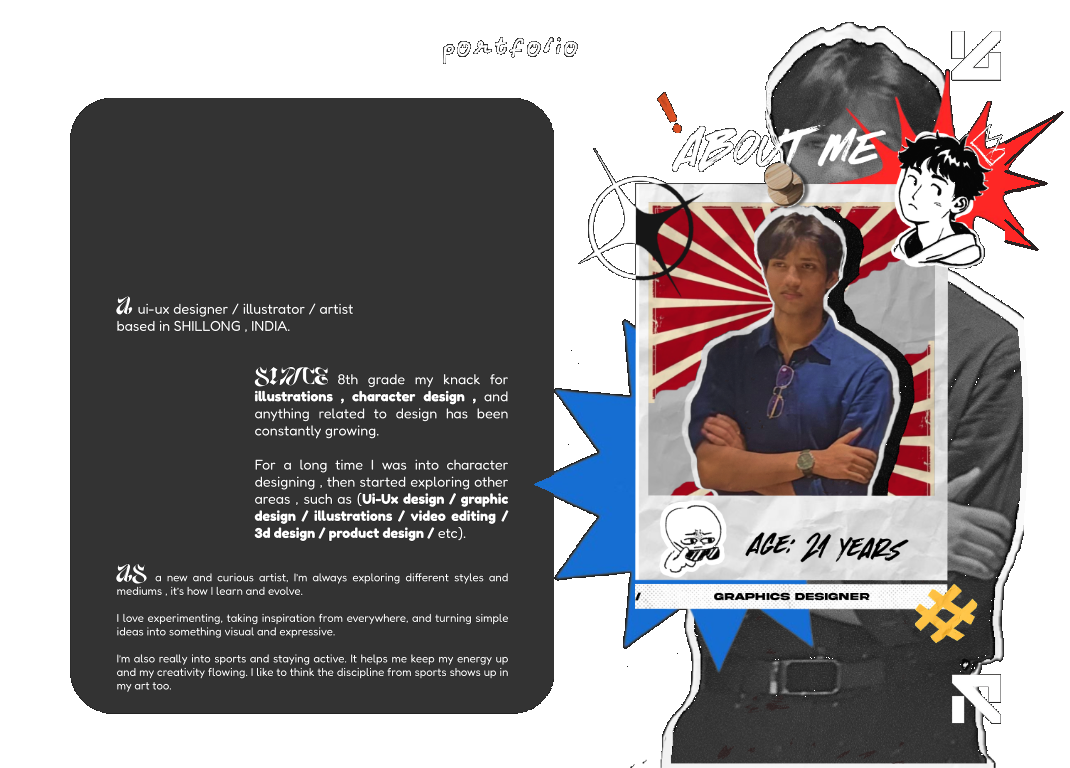
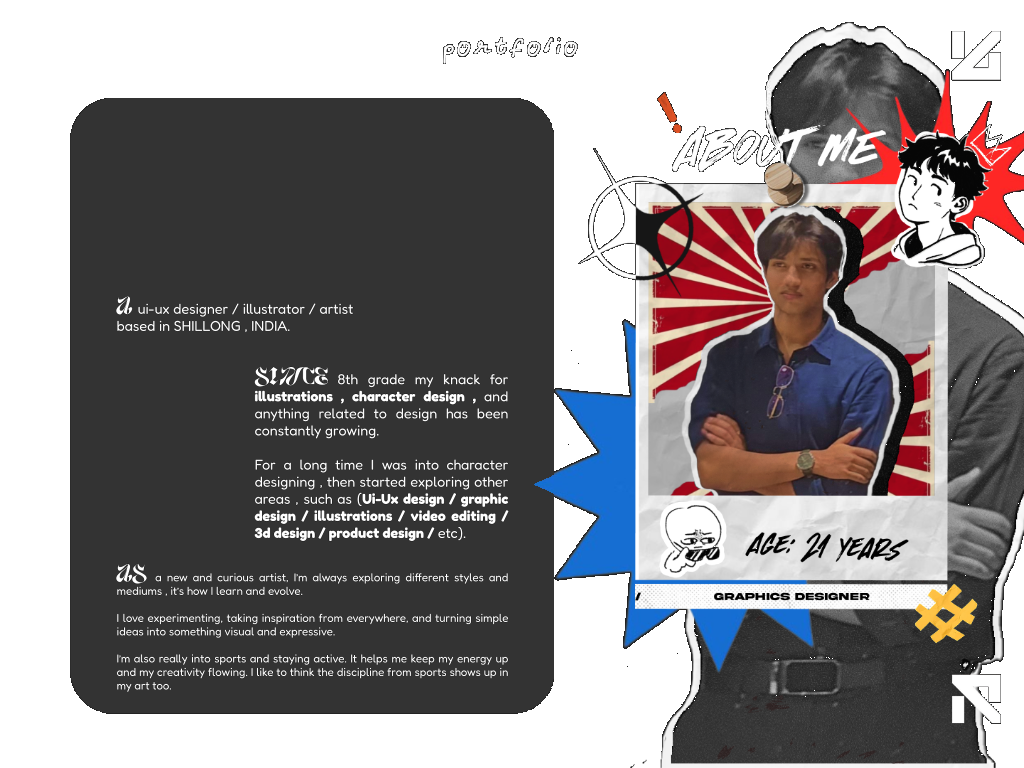
Revert "Keep card stroke and expand cutouts beyond border uncropped"
This reverts commit 6453556ddcc60aea8bdeaab93aa1ce0037a4eace.

diff --git a/src/components/AboutSection.jsx b/src/components/AboutSection.jsx
@@ -30,12 +30,12 @@ export default function AboutSection() {
         
         {/* ================= DESKTOP / TABLET VIEW (md and up) ================= */}
         <div className="hidden md:block w-full">
-          <div className="relative w-full max-w-[1440px] mx-auto aspect-[1024/768] rounded-t-[28px] lg:rounded-t-[36px] rounded-b-none overflow-visible shadow-[0_24px_70px_rgba(0,0,0,0.9)] border-t border-x border-white/10 group transition-all duration-500 hover:border-white/20">
-            {/* Pristine Figma Frame Canvas with clean base and expanded cutouts */}
+          <div className="relative w-full max-w-[1440px] mx-auto aspect-[1024/768] rounded-t-[28px] lg:rounded-t-[36px] rounded-b-none overflow-hidden shadow-[0_24px_70px_rgba(0,0,0,0.9)] border-t border-x border-white/10 group transition-all duration-500 hover:border-white/20">
+            {/* Pristine Figma Frame Canvas with clean base for animated layers */}
             <img
               src={aboutFullFrameCanvas}
               alt="About Me - Om, UI/UX Designer, Illustrator, Artist based in Shillong, India. Age 21 Years."
-              className="absolute left-0 top-0 h-full w-[104.492%] max-w-none object-contain object-left-top select-none pointer-events-none"
+              className="w-full h-full object-cover object-center select-none pointer-events-none"
             />
 
             {/* Interactive Animated Characters & "Hello, i'm OM." */}

diff --git a/src/components/AnimatedCollage.jsx b/src/components/AnimatedCollage.jsx
@@ -59,7 +59,7 @@ export default function AnimatedCollage({ className = '', standalone = false }) 
       onTouchMove={handleTouchMove}
       onTouchEnd={handleTouchEnd}
       onTouchCancel={handleTouchEnd}
-      className={`relative w-full aspect-[504/738] select-none touch-pan-y overflow-visible ${className}`}
+      className={`relative w-full aspect-[504/738] select-none touch-pan-y ${className}`}
       style={{ perspective: '1000px' }}
       role="region"
       aria-label="About Me collage with interactive Polaroid - Om: Age 21 Years, Graphics Designer"
@@ -69,7 +69,7 @@ export default function AnimatedCollage({ className = '', standalone = false }) 
         <img
           src={aboutRightCollageClean}
           alt="About Me - Om, 21 years old Graphics Designer collage"
-          className="absolute left-0 top-0 w-[109.127%] h-full max-w-none object-contain object-left-top pointer-events-none select-none z-0"
+          className="absolute inset-0 w-full h-full object-contain pointer-events-none select-none z-0"
         />
       )}
 
